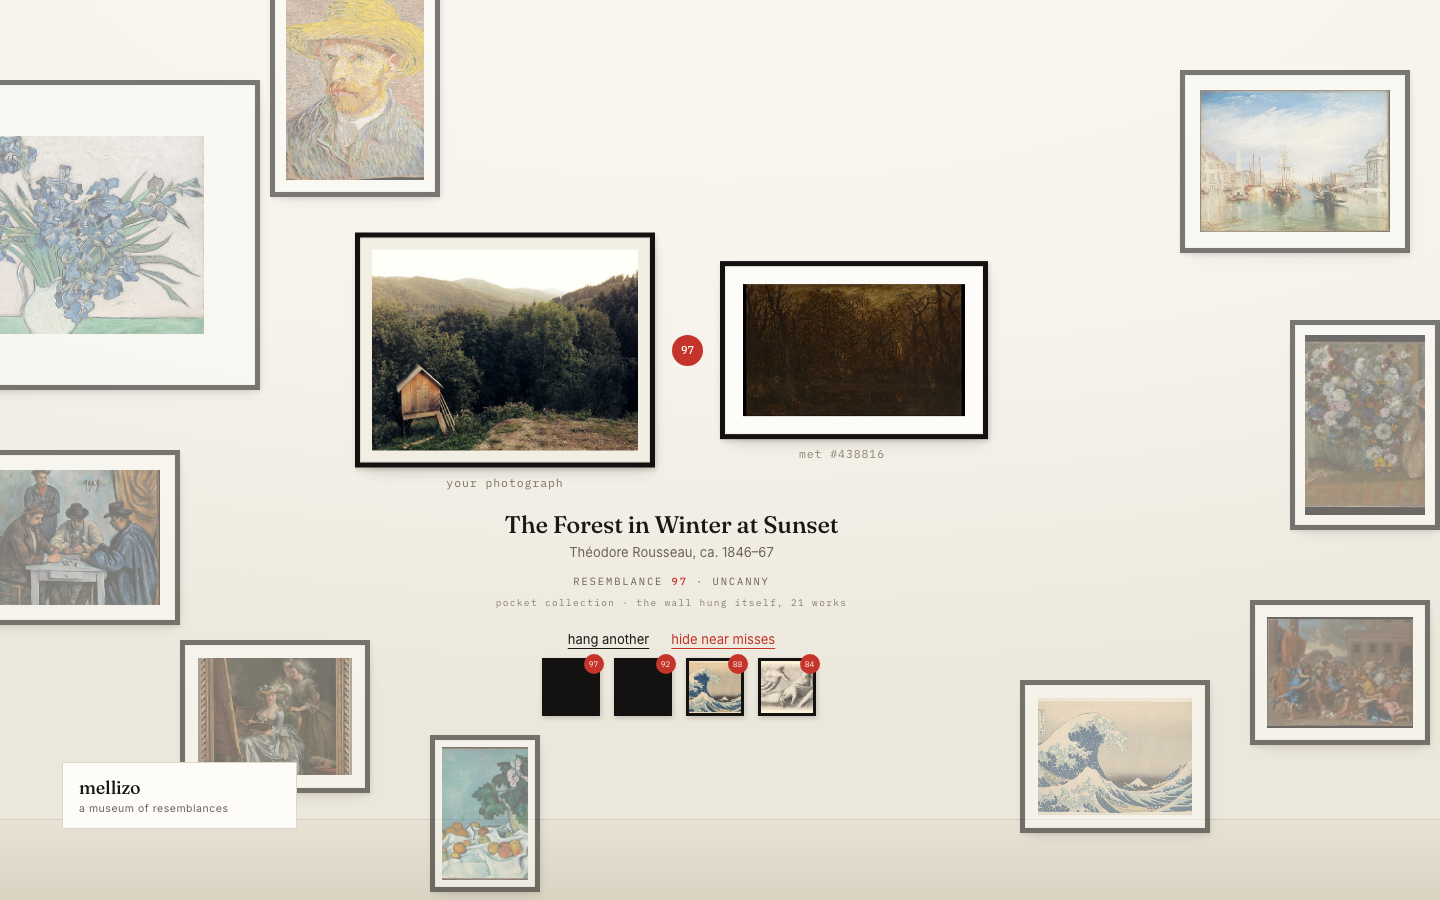
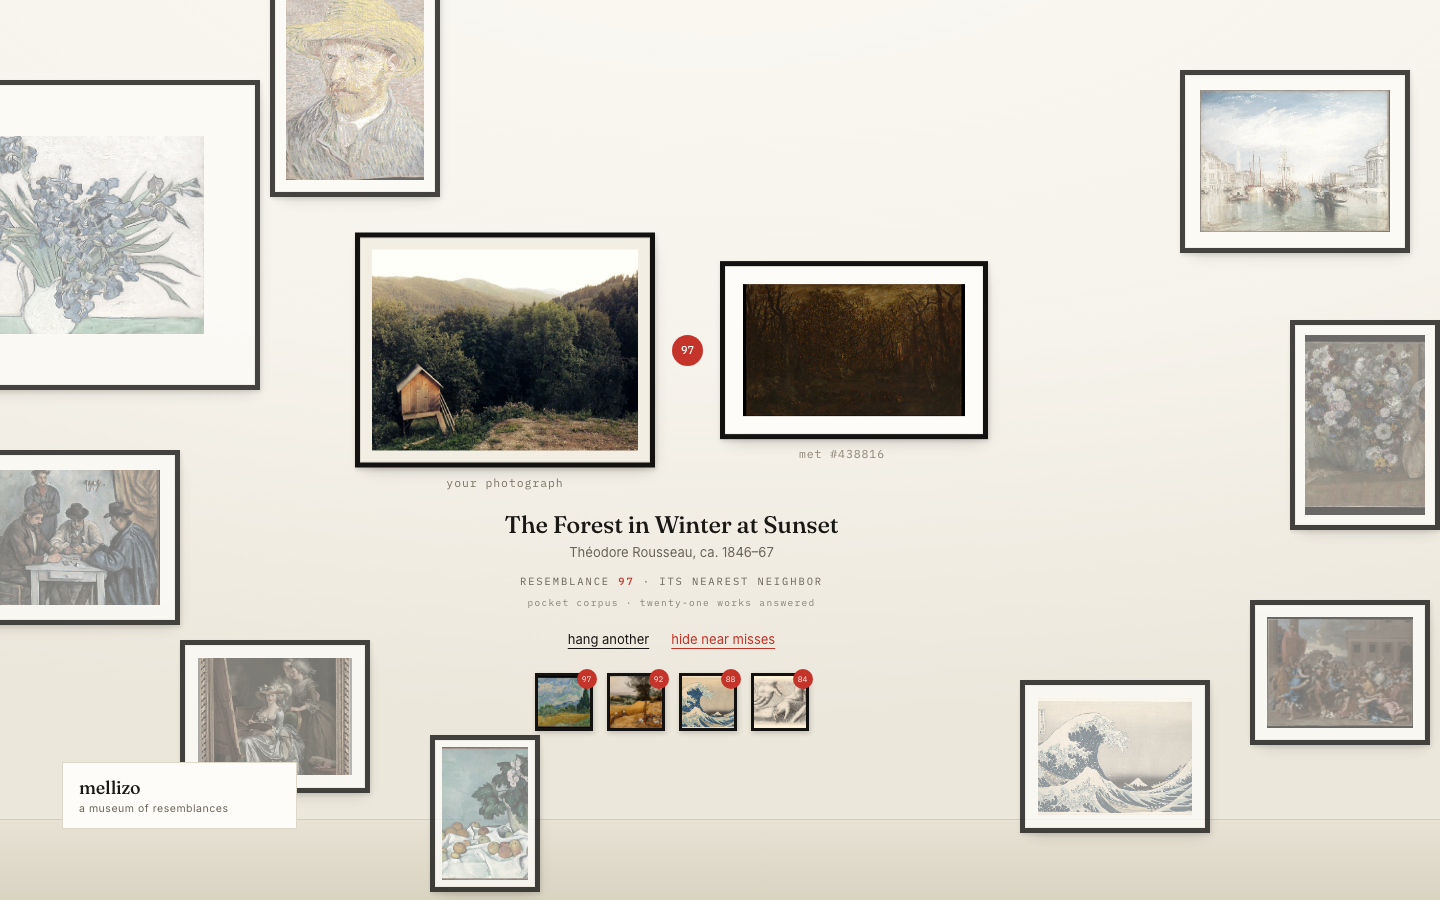
Design round 4: live progress bar, honest verdict copy, dim paintings not frames, prefetch strip thumbs

diff --git a/src/App.tsx b/src/App.tsx
@@ -11,7 +11,8 @@ const haptics = new WebHaptics();
 
 const STATUS = {
   reading: "Reading your photograph…",
-  warming: "Warming the eyes — a one-time download",
+  warming: "Warming the eyes · a one-time download",
+  preparing: "Preparing the model…",
   embedding: "Studying its features…",
   searching: "Walking the galleries…",
 };
@@ -110,6 +111,8 @@ export default function App() {
       setRunners(matches.slice(1));
       setLimited(limited);
       setPhase("result");
+      // warm the near-miss thumbs so the strip opens with paint, not black
+      matches.slice(1, 5).forEach(m => { const t = new Image(); t.src = m.img; });
       // the mark stamps late in the reveal — confirm exactly when it lands
       const reduced = matchMedia("(prefers-reduced-motion: reduce)").matches;
       setTimeout(() => haptics.trigger("success"), reduced ? 0 : 1400);
@@ -179,20 +182,18 @@ export default function App() {
   const pwEff = ph < ph0 ? ph * (photo ? photo.w / photo.h : 4 / 3) : pw;
   const aw = mobile ? 162 : 268;
   const ah0 = aw * matchAr;
-  const ah = Math.min(ah0, mobile ? 260 : 340);
+  const ah = Math.min(ah0, mobile ? 220 : 340);
   const awEff = ah < ah0 ? ah / matchAr : aw;
-  const seamY = mobile ? 196 : 330;
+  const seamY = mobile ? 160 : 330;
   const pTop = seamY - ph / 2 - 5;
   const aTop = seamY - ah / 2 - 5;
   const px = mobile ? 12 : 355;
   const ax = mobile ? 200 : 720;
   const pairCx = (px + ax + awEff) / 2;
-  const capTop = Math.max(pTop + ph, aTop + ah) + (mobile ? 34 : 52);
+  const capTop = Math.max(pTop + ph, aTop + ah) + (mobile ? 30 : 52);
   const capLeft = mobile
     ? Math.min(Math.max(pairCx - 150, 10), 375 - 310)
     : pairCx - 185;
-  const verdictWord = (s: number) =>
-    s >= 85 ? "uncanny" : s >= 70 ? "striking" : s >= 55 ? "a family resemblance" : "a distant cousin";
 
   // ----- frame positions: entry hang ↔ result rehang -----
   // Frames keep their entry left/top as the base position; the rehang moves
@@ -301,8 +302,8 @@ export default function App() {
               {mobile && <div className="cap-brand">mellizo · a museum of resemblances</div>}
               <div className="title">{match.title}</div>
               <div className="who">{[match.artist, match.date].filter(Boolean).join(", ")}</div>
-              <div className="verdict">resemblance <b>{match.score}</b> · {verdictWord(match.score)}</div>
-              {limited && <div className="limited">pocket collection · the wall hung itself, 21 works</div>}
+              <div className="verdict">resemblance <b>{match.score}</b> · its nearest neighbor</div>
+              {limited && <div className="limited">pocket corpus · twenty-one works answered</div>}
               <div className="actions">
                 <button onClick={reset}>hang another</button>
                 {runners.length > 0 && (
@@ -315,7 +316,9 @@ export default function App() {
                 <div className="strip">
                   {runners.slice(0, mobile ? 3 : 4).map(r => (
                     <button key={r.id} className="mini" onClick={() => swapRunner(r)} aria-label={`Hang ${r.title} instead`}>
-                      <img src={r.img} alt={r.title} />
+                      <img src={r.img} alt={r.title}
+                        ref={el => { if (el?.complete && el.naturalWidth) el.classList.add("ld"); }}
+                        onLoad={e => e.currentTarget.classList.add("ld")} />
                       <span>{r.score}</span>
                     </button>
                   ))}
@@ -335,13 +338,20 @@ export default function App() {
           </h1>
           <p className={`sub${phase === "busy" ? " status" : ""}`} aria-live="polite" style={mobile ? { fontSize: 12.5, maxWidth: 300, marginTop: 10 } : undefined}>
             {phase === "busy"
-              ? `${status}${modelPct > 0 && modelPct < 1 ? ` ${Math.round(modelPct * 100)}%` : ""}`
+              ? status === STATUS.warming && modelPct >= 1
+                ? STATUS.preparing
+                : `${status}${modelPct > 0 && modelPct < 1 ? ` ${Math.round(modelPct * 100)}%` : ""}`
               : phase === "error"
                 ? status
                 : mobile
                   ? "The collection finds its match on this device. Your photo is never uploaded."
-                  : "Drop any photo onto the wall. Eighteen thousand open artworks answer, and the photo itself never leaves your device."}
+                  : "Drop any photo onto the wall. Open artworks answer, and the photo itself never leaves your device."}
           </p>
+          {phase === "busy" && (
+            <div className="busybar">
+              <div className={modelPct > 0 && modelPct < 1 ? "fill" : "fill ind"} style={modelPct > 0 && modelPct < 1 ? { width: `${Math.round(modelPct * 100)}%` } : undefined} />
+            </div>
+          )}
           {phase === "error" ? (
             <p className={`act${mobile ? " tap" : ""}`}><button className="retry" onClick={openPicker}>try again</button></p>
           ) : phase === "idle" && !mobile ? (
@@ -352,7 +362,7 @@ export default function App() {
         {/* on mobile the sample link hangs under the reserved frame's label */}
         {mobile && phase === "idle" && (
           <button className="retry sample-under" style={{ left: resBase.x + resBase.w / 2, top: resBase.y + resBase.h + 56 }}
-            onClick={useSample}>or hang one of ours</button>
+            onClick={useSample}><img className="sample-thumb" src="/sample.jpg" alt="" />or hang one of ours</button>
         )}
 
         {!mobile && (

diff --git a/src/styles.css b/src/styles.css
@@ -46,8 +46,12 @@ body {
     opacity .7s ease;
 }
 .frame.gone { opacity: 0; pointer-events: none; }
-/* in the result the pair owns the room; the rest of the hang steps back */
-.phase-result .frame:not(.reserved):not(.twin):not(.gone) { opacity: .55; }
+/* in the result the pair owns the room; the rest of the hang steps back —
+   paintings dim, frames keep their material so the wall stays physical */
+.phase-result .frame:not(.reserved):not(.twin):not(.gone) { opacity: .78; }
+.phase-result .frame:not(.reserved):not(.twin):not(.gone) img {
+  filter: saturate(.45) brightness(1.1); opacity: .72;
+}
 .frame .moulding {
   background: var(--frame); padding: 5px; height: 100%;
   box-shadow: 1px 2px 4px rgba(24,20,14,.15), 3px 8px 16px -8px rgba(24,20,14,.22);
@@ -59,7 +63,7 @@ body {
   transition: padding .8s ease;
 }
 .frame .mat.deep { padding: 13%; }
-.frame img { width: 100%; height: 100%; object-fit: cover; display: block; filter: saturate(.93) contrast(1.01); }
+.frame img { width: 100%; height: 100%; object-fit: cover; display: block; filter: saturate(.93) contrast(1.01); transition: filter .7s ease, opacity .7s ease; }
 .reserved .mat img { object-fit: contain; }
 .frame .accn {
   position: absolute; top: calc(100% + 7px); left: 50%; transform: translateX(-50%);
@@ -115,7 +119,15 @@ button.frame:disabled { cursor: default; }
 .vinyl h1 { font-family: "Fraunces", serif; font-weight: 400; font-size: 44px; line-height: 1.04; letter-spacing: -0.015em; color: var(--ink); }
 .vinyl h1 em { font-style: italic; font-weight: 300; }
 .vinyl .sub { margin-top: 16px; font-size: 14px; line-height: 1.55; color: var(--ink-soft); max-width: 330px; }
-.vinyl .sub.status { font-family: "IBM Plex Mono", monospace; font-size: 11px; letter-spacing: .06em; }
+.vinyl .sub.status { font-family: "IBM Plex Mono", monospace; font-size: 12px; letter-spacing: .06em; color: var(--ink); }
+/* the wait always has a heartbeat: real progress during download,
+   an indeterminate pulse while the model thinks and galleries answer */
+.busybar { margin-top: 14px; width: 200px; height: 2px; background: var(--hairline); overflow: hidden; }
+.busybar .fill { height: 100%; background: var(--red); transition: width .3s ease; }
+.busybar .fill.ind {
+  width: 34%; animation: ind 1.15s var(--ease-wall) infinite alternate;
+}
+@keyframes ind { from { transform: translateX(-30%); } to { transform: translateX(230%); } }
 .vinyl .act { margin-top: 20px; font-size: 13.5px; color: var(--ink); }
 .vinyl .act .retry {
   appearance: none; background: none; border: 0; padding: 0 0 2px;
@@ -125,7 +137,7 @@ button.frame:disabled { cursor: default; }
 .vinyl .act.tap .retry { display: inline-block; padding: 15px 8px 15px 0; margin: -4px 0; }
 @media (hover: hover) { .vinyl .act .retry:hover { border-bottom-color: var(--red); color: var(--red); } }
 .vinyl .act .retry:active { color: var(--red); }
-.vinyl .act .retry .sample-thumb {
+.sample-thumb {
   display: inline-block; width: 26px; height: 26px; object-fit: cover;
   vertical-align: -8px; margin-right: 9px;
   background: var(--frame); padding: 2px;
@@ -222,8 +234,9 @@ button.frame:disabled { cursor: default; }
   width: 100%; aspect-ratio: 1; object-fit: cover; display: block;
   background: var(--frame); padding: 3px;
   box-shadow: 1px 2px 5px rgba(24,20,14,.2);
-  transition: transform .18s var(--ease-wall);
+  opacity: 0; transition: opacity .35s ease, transform .18s var(--ease-wall);
 }
+.strip .mini img.ld { opacity: 1; }
 @media (hover: hover) { .strip .mini:hover img { transform: translateY(-2px); } }
 .strip .mini:active img { transform: translateY(1px); }
 .strip .mini:focus-visible { outline: 2px solid var(--red); outline-offset: 3px; }

diff --git a/api/keepalive.ts b/api/keepalive.ts
@@ -1,4 +1,5 @@
 // Vercel cron: one cheap RPC call a day keeps the free-tier corpus warm.
+declare const process: { env: Record<string, string | undefined> };
 export default async function handler(_req: Request) {
   const url = process.env.VITE_SUPABASE_URL;
   const key = process.env.VITE_SUPABASE_ANON_KEY;
